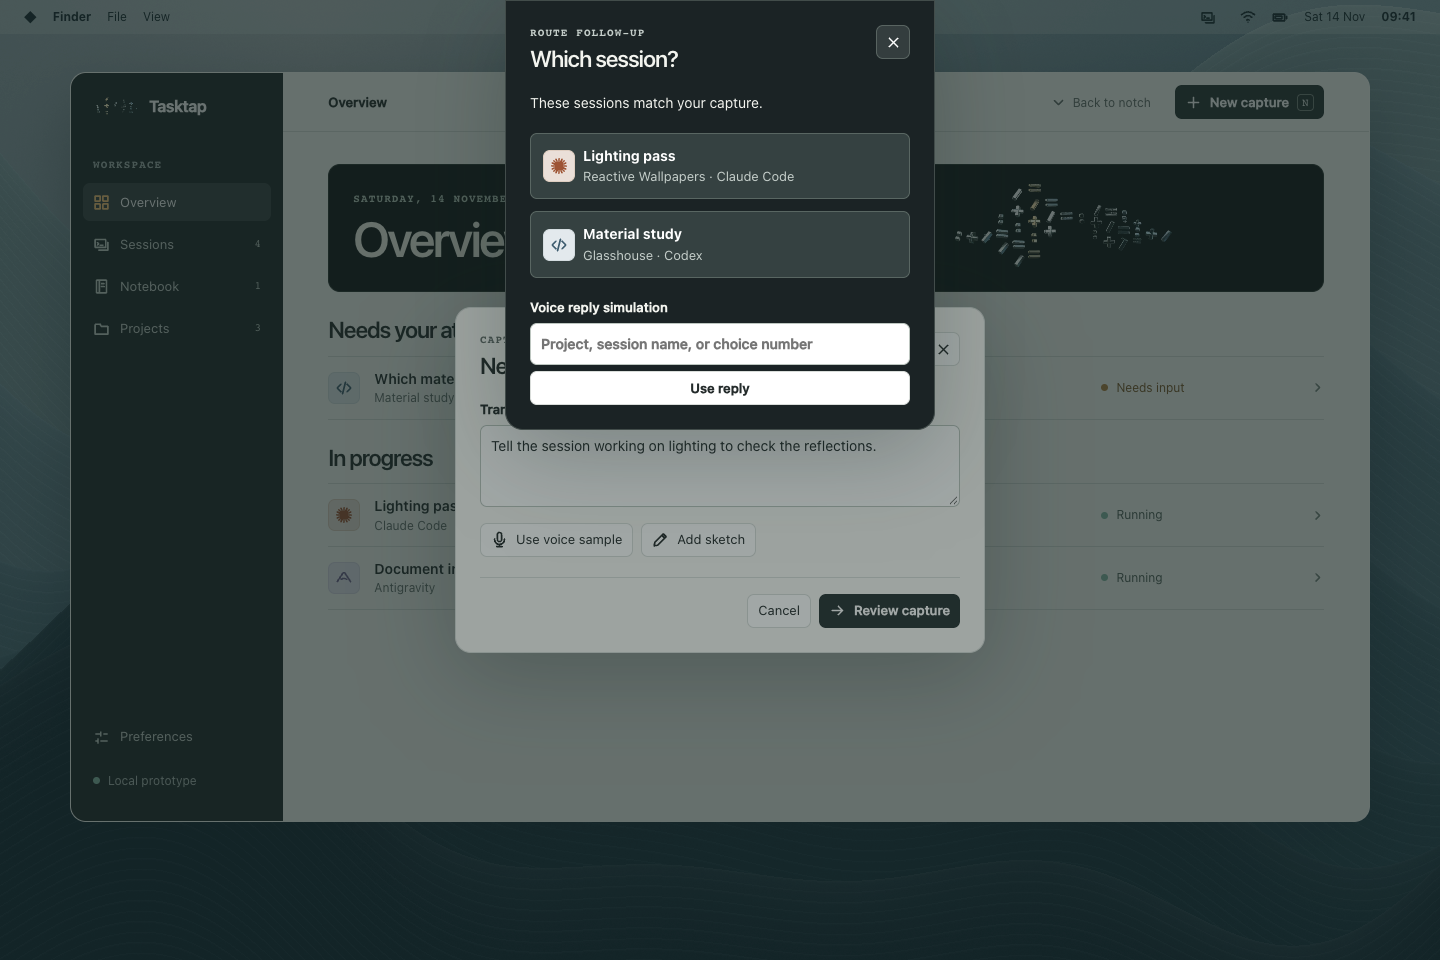
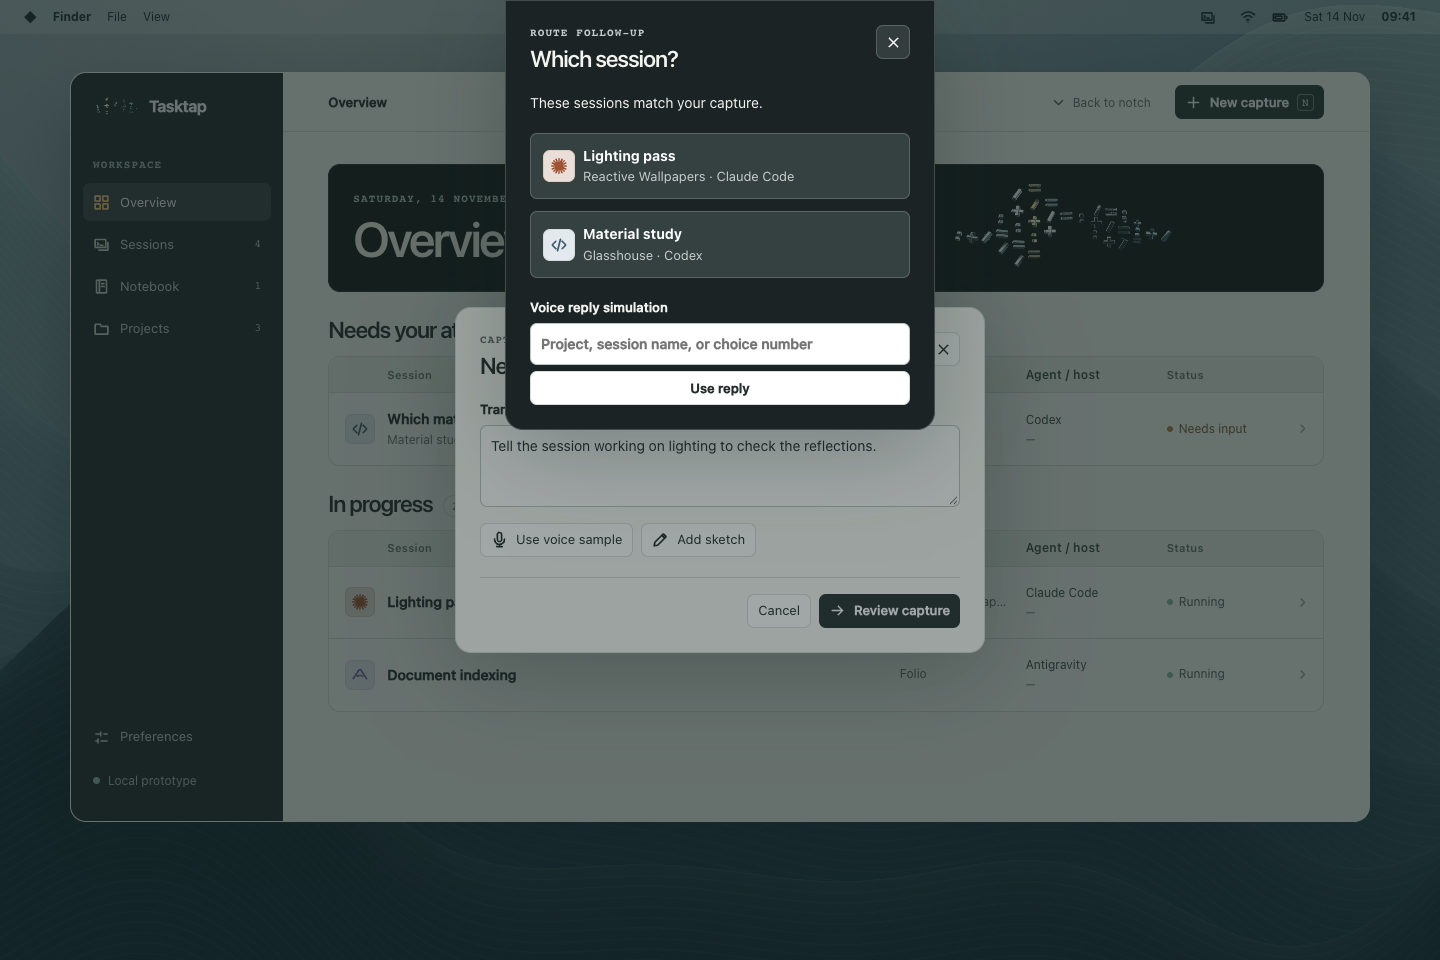
Align workspace session and project rows with shared columns

diff --git a/site/docs/index.html b/site/docs/index.html
@@ -24,7 +24,7 @@ open build/Tasktap.app</code></pre></details><p>Keep project folders under <code
 <section class="guide-section" id="agents"><h2>Agents &amp; accounts</h2><p>There are two separate choices: the connection that <strong>prepares your request</strong>, and the coding agent that <strong>does the project work</strong>. They can use different models and accounts.</p><div class="connection-grid"><div><h3>On this Mac</h3><p>Uses an available Apple model or local matching. No cloud account is needed.</p></div><div><h3>Connected models</h3><p>Use a CLI login, a provider account, or a model server. The route you choose determines where preparation happens.</p></div></div><details><summary>Connection options and account details</summary><p>In <strong>Run Setup → Tasktap</strong>, choose who turns a capture into a brief. <strong>On this Mac</strong> needs no account. <strong>Claude Code</strong> opens a visible drafting conversation in Terminal. Choose <strong>Copy &amp; open Claude Code</strong>, paste and send the request there, then press <kbd>⌃ ⌥ Space</kbd> to return. Choose <strong>Get Claude’s reply</strong> or paste a brief, edit it and review the handoff. Claude uses the account signed in to its CLI. Notes and nudges continue directly. <strong>My Codex login</strong> uses the login in your installed Codex CLI; Tasktap shows the account and workspace when Codex reports them, or identifies API-key billing. A separate <strong>ChatGPT plan</strong> connection uses the account you select for Tasktap. For <strong>Ollama</strong>, enter the server address and choose <strong>Find models</strong>, or enter the exact model ID. Downloaded models on your Mac use no cloud account; cloud models and gateways can send requests upstream.</p></details><p>The next step, <strong>Project work</strong>, sets the project agent and terminal independently. For example, Ollama can prepare a brief that Claude Code runs with its own login. Setup saves both choices when you finish. You can also draft in Claude Code and send the finished brief to Codex. Tasktap shows you the request before it leaves your Mac.</p><h3>Who prepares the handoff?</h3><p>Open <strong>Preferences → Agents → Request preparation</strong>. “On this Mac” uses the available Apple model or local matching. In setup, <strong>More connections…</strong> reveals additional model servers, provider API keys and eligible ChatGPT plan access. For automatic Claude preparation, choose an Anthropic API key or Claude Code with cloud billing. To use Ollama, vLLM or LiteLLM, choose its preset, check the base URL, find or enter a chat model, and save. A gateway can forward a request to a paid upstream provider.</p><p>The review shows the preparation route and where the worker will run. Before remote preparation, you can see the capture and matching labels to be sent and choose local preparation instead.</p>
 <h3>Claude Desktop handoff</h3><p>For a new Claude request, you can choose Claude Desktop as the destination. Tasktap opens a prepared Code brief; confirm the folder and send it in Claude. A prepared brief is shown as <strong>Ready to send</strong>, not as running. Activity, replies, and follow-ups remain in Claude.</p><h3>Who does the work?</h3><p>Tasktap launches your installed Claude Code, Codex, Antigravity, Cursor CLI or Pi with its own CLI account. Under <strong>Agents → Session models</strong>, choose a fixed model or assign models by difficulty. Worker ranking can use available quota estimates. Review lets you choose the agent and model for this job. A nudge uses the existing session.</p>
 </section>
-<section class="guide-section" id="sessions"><h2>Return to a session</h2><p class="section-lede">Find the work, even when its name has changed.</p><p>Open <strong>Workspace → Sessions</strong>. Search by project, task, agent or words from a result. Select the matching run to see its activity, handoffs and summary. Choose <strong>Open in</strong> for a live session or <strong>Resume in</strong> for a supported saved conversation.</p><p>Session details show the host app, project, and recent activity. For cmux sessions, open the original pane; if its inbox is unavailable, send your follow-up there.</p><h3>Current and past names</h3><p>Active session names follow the work described in recent public conversation messages. Tasktap uses your selected preparation connection; interactive Claude preparation uses the available on-device model instead. Cloud connections receive only a short excerpt, not tool output or reasoning. Names refresh only when messages change, at most once per session every three minutes. Open a session’s <strong>Past names</strong> dropdown to see previous names; session search includes every saved name. If a model is unavailable, the existing name stays in place.</p><h3>Continue the conversation</h3><p>To send a follow-up, name the session or choose <strong>Follow up</strong>. Codex can queue it on the original thread. Some agents use <strong>Copy nudge &amp; open session</strong>; paste the reviewed text at the agent prompt.</p>
+<section class="guide-section" id="sessions"><h2>Return to a session</h2><p class="section-lede">Find the work, even when its name has changed.</p><p>Open <strong>Workspace → Sessions</strong>. Search by project, task, agent or words from a result. Select the matching run to see its activity, handoffs and summary. Choose <strong>Open in</strong> for a live session or <strong>Resume in</strong> for a supported saved conversation.</p><p>Session details show the host app, project, and recent activity. For cmux sessions, open the original pane; if its inbox is unavailable, send your follow-up there.</p><h3>Scan your workspace</h3><p>Session rows separate the work, project, agent and host, status, and update time into aligned columns. Narrow windows move project and agent details below the name. Open a row to see the full session details. Projects show their folder, active sessions, and total sessions in the same compact layout.</p><h3>Current and past names</h3><p>Active session names follow the work described in recent public conversation messages. Tasktap uses your selected preparation connection; interactive Claude preparation uses the available on-device model instead. Cloud connections receive only a short excerpt, not tool output or reasoning. Names refresh only when messages change, at most once per session every three minutes. Open a session’s <strong>Past names</strong> dropdown to see previous names; session search includes every saved name. If a model is unavailable, the existing name stays in place.</p><h3>Continue the conversation</h3><p>To send a follow-up, name the session or choose <strong>Follow up</strong>. Codex can queue it on the original thread. Some agents use <strong>Copy nudge &amp; open session</strong>; paste the reviewed text at the agent prompt.</p>
 <p><strong>Delivered</strong> means the nudge reached the queue. <strong>Complete</strong> carries the result. Tasktap waits for outstanding handoffs and questions to settle and checks the provider’s saved turn before closing a managed Codex or Claude worker. Each answered Codex nudge can be matched back to its own receipt. You can reopen the conversation later. Other harnesses may require reading the outcome and closing their terminal yourself.</p></section>
 <section class="guide-section" id="voice"><h2>Voice &amp; controls</h2><h3>Dock and automatic startup</h3><p>Click Tasktap’s Dock icon to reopen the workspace. Closing its window keeps the notch available. Choose <strong>Options → Keep in Dock</strong> from the Dock menu to retain the icon after quitting. Enable <strong>Launch at Login</strong> in Tasktap’s menu bar menu to start it when you sign in; if approval is required, Tasktap opens Login Items settings.</p><h3>Voice and decisions</h3><p>In <strong>Preferences → Voice &amp; alerts</strong>, preview an available local Siri voice or set up Kokoro for offline English narration. Enable spoken summaries if you want to hear completions. Typed capture works in silence.</p><p>A question lights the rim around the notch. Hover or press <kbd>Control + Option + J</kbd> to review it. Choose an answer or <strong>Talk it through</strong>. With optional Codex Micro controls enabled in the Mac menu, the first two Agent Keys light green and red for Yes and No. The third opens discussion. The same decisions work on the Mac when the controller is unplugged.</p></section>
 <section class="guide-section" id="appearance"><h2>Artwork &amp; motion</h2><p>The Mac app icon uses a still metallic voice wave across a near-black square, matching the animated artwork on this site.</p><p>Choose Glyph wave, Phase field, Relay, Signal globe or Resonator under <strong>Preferences → Appearance</strong>. Large illustrations play more slowly than compact notch signals. The microphone trace follows your voice and the relay follows handoff receipts. For still artwork and steady signals, enable <strong>Reduce motion</strong> in macOS Accessibility → Display.</p></section>

diff --git a/prototype/app.js b/prototype/app.js
@@ -80,11 +80,27 @@ function renderNav(projects){
   $('#nav').innerHTML='<div class="nav-group"><span class="nav-kicker">Workspace</span>'+navLink('overview','Overview',icon('grid'))+navLink('sessions','Sessions',icon('sessions'),count(state.sessions.length))+navLink('notes','Notebook',icon('note'),count(state.notes.length))+navLink('projects','Projects',icon('folder'),count(projects.length))+'</div>';
   $('#islandLabel').textContent=state.decisions.length?state.decisions.length+' decision'+(state.decisions.length>1?'s':''):'All clear';
 }
-function sessionRow(s,{question,fixture=false,title=question?.q || sessionDisplayName(s),status=question?'Needs input':s.state}={}){
+function fixtureSessionRow(s,{question,fixture=false,title=question?.q || sessionDisplayName(s),status=question?'Needs input':s.state}={}){
   const agent=[providers[s.agent]||'Agent',sessionLocation(s)].filter(Boolean).join(' · '),p=proj(s.project);
   const lastRun=view==='sessions' && s.updatedAt?new Date(s.updatedAt).toLocaleString(undefined,{dateStyle:'medium',timeStyle:'short'}):'';
   const subtitle=[question?sessionDisplayName(s):'',agent,lastRun].filter(Boolean).join(' · ');
   return '<button class="session-row" data-action="'+(question?'notch':'session')+'" data-id="'+attr(question?.id || s.id)+'">'+(s.agent?'<span class="agent-mark '+attr(s.agent)+'">'+icon(s.agent)+'</span>':'<span aria-hidden="true"></span>')+'<span><span class="row-title">'+esc(title)+'</span><span class="row-sub">'+esc(subtitle)+'</span></span><span class="row-project">'+esc(p?.name||'Project')+'</span>'+(fixture?'<span class="fixture-amount">'+esc(s.amount)+'</span>':'<span class="row-state '+statusClass(question?'Needs input':s.state)+'"><i class="state-dot"></i>'+esc(status)+'</span>')+icon('right')+'</button>';
+}
+function sessionUpdated(s){
+  const date=new Date(Number(s.updatedAt));
+  if(!s.updatedAt || !Number.isFinite(date.getTime()))return '<span class="row-updated" aria-label="Update time unavailable">—</span>';
+  const today=new Date().toDateString()===date.toDateString();
+  const short=date.toLocaleString(undefined,today?{hour:'numeric',minute:'2-digit'}:{month:'short',day:'numeric'});
+  return '<time class="row-updated" datetime="'+date.toISOString()+'" title="'+attr(date.toLocaleString())+'">'+esc(short)+'</time>';
+}
+function sessionColumns(){return '<div class="list-columns" aria-hidden="true"><span>Session</span><span class="row-project">Project</span><span class="row-agent">Agent / host</span><span>Status</span><span class="row-updated">Updated</span><span></span></div>'}
+function sessionRow(s,{question,fixture=false,title=question?.q || sessionDisplayName(s),status=question?'Needs input':s.state}={}){
+  if(fixture)return fixtureSessionRow(s,{question,fixture,title,status});
+  const project=proj(s.project)?.name||'Scratch',agent=providers[s.agent]||'Agent',host=sessionLocation(s);
+  const context=question?'<span class="row-sub row-context">'+esc(sessionDisplayName(s))+'</span>':'';
+  return '<button class="session-row work-row" data-action="'+(question?'notch':'session')+'" data-id="'+attr(question?.id || s.id)+'">'+
+    '<span class="session-cell"><span class="agent-mark '+attr(s.agent||'')+'" aria-hidden="true">'+icon(s.agent||'sessions')+'</span><span class="session-copy"><span class="row-title" title="'+attr(title)+'">'+esc(title)+'</span>'+context+'<span class="row-compact"><span class="row-compact-project">'+esc(project)+'</span><span class="row-compact-agent">'+esc([agent,host].filter(Boolean).join(' · '))+'</span></span></span></span>'+
+    '<span class="row-project" title="'+attr(project)+'">'+esc(project)+'</span><span class="row-agent"><span>'+esc(agent)+'</span><span class="row-sub">'+esc(host||'—')+'</span></span><span class="row-state '+statusClass(status)+'"><i class="state-dot" aria-hidden="true"></i>'+esc(status)+'</span>'+sessionUpdated(s)+icon('right')+'</button>';
 }
 function workOverview(active){
   const questions=new Map();
@@ -103,10 +119,10 @@ function workOverview(active){
       progress.push(sending?sessionRow(session,{title:turn.brief || session.task,status:turn.receipt==='Queued'?'Follow-up queued':'Sending follow-up'}):sessionRow(session));
     }
   }
-  const section=(title,rows)=>rows.length?'<section class="block"><h2>'+title+'</h2><div class="session-list">'+rows.join('')+'</div></section>':'';
+  const section=(title,rows)=>rows.length?'<section class="block"><h2>'+title+'<span class="list-count">'+rows.length+'</span></h2><div class="session-list work-list">'+sessionColumns()+rows.join('')+'</div></section>':'';
   return section('Needs your attention',attention)+section('In progress',progress) || '<p class="empty">No active sessions.</p>';
 }
-function sessionList(rows){return rows.length?'<div class="session-list">'+rows.map(s=>sessionRow(s)).join('')+'</div>':'<p class="empty">No sessions here yet.</p>'}
+function sessionList(rows){return rows.length?'<div class="session-list work-list">'+sessionColumns()+rows.map(s=>sessionRow(s)).join('')+'</div>':'<p class="empty">No sessions here yet.</p>'}
 function noteList(notes){return notes.length?notes.map(n=>'<button class="note" data-action="note" data-id="'+attr(n.id)+'"><span class="eyebrow">'+esc(proj(n.project)?.name||'Scratch')+'</span><strong>'+esc(n.title)+'</strong><span class="hint">'+esc(n.text)+'</span></button>').join(''):'<p class="empty">No notes here yet.</p>'}
 let projectFilter='';
 let sessionFilter='';
@@ -127,7 +143,10 @@ function renderSessionHistory(){
 }
 function renderProjectList(projects){
   const rows=projects.filter(p=>p.name.toLowerCase().includes(projectFilter.trim().toLowerCase()));
-  $('#project-list').innerHTML=rows.map(p=>button(p.name,'view',p.id,'note','folder')).join('')||'<p class="empty">'+(projectFilter.trim()?'No matching projects.':state.showIdleProjects?'No project folders found.':'No projects have active sessions.')+'</p>';
+  $('#project-list').innerHTML=rows.length?'<div class="project-table"><div class="project-columns" aria-hidden="true"><span>Project / folder</span><span>Active</span><span>Sessions</span><span></span></div>'+rows.map(p=>{
+    const sessions=state.sessions.filter(s=>s.project===p.id),active=sessions.filter(s=>activeSessionStates.has(s.state)).length;
+    return '<button class="project-row" data-action="view" data-id="'+attr(p.id)+'"><span class="session-cell"><span class="project-folder" aria-hidden="true">'+icon('folder')+'</span><span class="session-copy"><span class="row-title">'+esc(p.name)+'</span><span class="row-sub project-path" title="'+attr(p.folder||'')+'">'+esc(p.folder||'Folder unavailable')+'</span></span></span><span class="project-active '+(active?'has-active':'')+'" aria-label="'+active+' active sessions">'+active+'</span><span class="project-total" aria-label="'+sessions.length+' sessions">'+sessions.length+'</span>'+icon('right')+'</button>';
+  }).join('')+'</div>':'<p class="empty">'+(projectFilter.trim()?'No matching projects.':state.showIdleProjects?'No project folders found.':'No projects have active sessions.')+'</p>';
 }
 function render(){
   const active=activeSessions(),projects=listedProjects(active);

diff --git a/prototype/workspace-lists.css b/prototype/workspace-lists.css
@@ -1,0 +1,72 @@
+/* Shared tracks keep headers and every row aligned, even across overview groups. */
+.work{container-type:inline-size;container-name:workspace}
+.work-list.session-list{--session-columns:minmax(0,1fr) 110px 125px 126px 14px;display:grid;grid-template-columns:var(--session-columns);column-gap:var(--s-panel);border:1px solid var(--edge);border-radius:var(--r-card);background:#ffffff60;overflow:clip}
+.work-list>.list-columns,.work-list>.work-row{display:grid;grid-template-columns:subgrid;grid-column:1/-1;column-gap:var(--s-panel);padding-inline:var(--s-panel)}
+.list-columns{min-height:36px;align-items:center;background:#edf0ea;border-bottom:1px solid var(--edge);font-size:var(--t-meta);font-weight:600;letter-spacing:.025em;color:#637168}
+.work-list .work-row{min-height:80px;padding-block:var(--s-row);margin:0;line-height:1.4}
+.work-list .work-row:last-child{border-bottom:0}
+.work-list .work-row:hover{background:#e7ede5}
+.work-list .work-row:focus-visible,.project-row:focus-visible{outline-offset:-3px;background:#e7ede5}
+.session-cell{display:flex;align-items:center;gap:var(--s-row);min-width:0;text-align:left}
+.session-copy{display:block;min-width:0;flex:1}
+.work-row .agent-mark{flex:none;width:30px;height:30px;border-radius:var(--r-control)}
+.work-row .row-title{display:-webkit-box;-webkit-box-orient:vertical;-webkit-line-clamp:2;overflow:hidden;font-size:var(--t-base);font-weight:550;line-height:1.4;overflow-wrap:anywhere}
+.work-row .row-context{white-space:nowrap;text-overflow:ellipsis;overflow:hidden;margin-top:var(--s-tight)}
+.work-list .row-project{display:block;white-space:nowrap;overflow:hidden;text-overflow:ellipsis;font-size:var(--t-small);color:#58685f}
+.row-agent{min-width:0;font-size:var(--t-small);color:#39483f}
+.row-agent>span{display:block;overflow:hidden;white-space:nowrap;text-overflow:ellipsis}
+.row-agent .row-sub{margin-top:var(--s-tiny);font-size:var(--t-meta);color:var(--muted)}
+.work-row .row-state{font-size:var(--t-small);gap:var(--s-small);line-height:1.4;min-width:0}
+.work-row .state-dot{width:6px;height:6px}
+.work-list .row-updated{display:none;font-size:var(--t-meta);font-variant-numeric:tabular-nums;color:var(--muted);text-align:right}
+.work-row>.icon{justify-self:end;opacity:.65}
+.row-compact,.row-compact-project,.row-compact-agent{display:none}
+.list-count{display:inline-block;margin-left:var(--s-control);vertical-align:middle;font:var(--t-small)/1.4 var(--font-mono);color:var(--muted);border:1px solid var(--edge);border-radius:var(--r-pill);padding:var(--s-tiny) var(--s-icon)}
+#project-list{display:block}
+.project-table{display:grid;grid-template-columns:minmax(0,1fr) 80px 80px 14px;column-gap:var(--s-panel);border:1px solid var(--edge);border-radius:var(--r-card);overflow:clip;background:#ffffff60}
+.project-columns,.project-row{display:grid;grid-template-columns:subgrid;grid-column:1/-1;column-gap:var(--s-panel);align-items:center;padding:var(--s-row) var(--s-panel);text-align:left;border-bottom:1px solid var(--edge)}
+.project-columns{background:#edf0ea;font-size:var(--t-meta);font-weight:600;color:#637168;padding-block:var(--s-control)}
+.project-row{min-height:76px}
+.project-row:last-child{border-bottom:0}
+.project-row:hover{background:#e7ede5}
+.project-row .row-title{font-size:var(--t-base);font-weight:550}
+.project-folder{width:30px;height:30px;display:grid;place-items:center;color:#67816b;flex:none}
+.project-path{font-size:var(--t-meta);white-space:nowrap;text-overflow:ellipsis;overflow:hidden;margin-top:var(--s-tight)}
+.project-active,.project-total,.project-columns>span:not(:first-child){text-align:right;font-variant-numeric:tabular-nums;font-size:var(--t-small);color:var(--muted)}
+.project-active.has-active{color:#2c6748;font-weight:650}
+.project-row>.icon{width:13px;color:#78847e;justify-self:end}
+@container workspace (min-width:1100px){
+ .work-list.session-list{--session-columns:minmax(0,1fr) 130px 140px 132px 86px 14px}
+ .work-list .row-updated{display:block}
+}
+@container workspace (max-width:800px){
+ .work-list.session-list{--session-columns:minmax(0,1fr) 120px 116px 14px}
+ .work-list .row-project{display:none}
+ .row-compact,.row-compact-project{display:block}
+ .row-compact{margin-top:var(--s-tight);font-size:var(--t-meta);color:var(--muted)}
+}
+@container workspace (max-width:620px){
+ .work-list.session-list{display:block}
+ .work-list>.list-columns{display:none}
+ .work-list>.work-row{position:relative;display:grid;grid-template-columns:minmax(0,1fr) auto;gap:var(--s-control) var(--s-icon);padding:var(--s-panel);min-height:0}
+ .work-row>.session-cell{grid-column:1/-1;padding-right:var(--s-block);align-items:flex-start}
+ .work-row .agent-mark{margin-top:var(--s-tiny)}
+ .work-list .row-agent{display:none}
+ .row-compact{display:flex;gap:var(--s-tight) var(--s-icon);flex-wrap:wrap}
+ .row-compact-agent{display:block}
+ .row-compact-project{font-weight:600}
+ .work-row .row-state{grid-column:1;padding-left:calc(30px + var(--s-row));font-size:var(--t-meta)}
+ .work-list .work-row .row-updated{display:block;grid-column:2;align-self:center}
+ .work-row>.icon{position:absolute;right:16px;top:20px}
+ .project-table{grid-template-columns:minmax(0,1fr) 44px 54px 12px;column-gap:var(--s-icon)}
+ .project-columns,.project-row{padding-inline:var(--s-row);column-gap:var(--s-icon)}
+ .project-row .session-cell{gap:var(--s-small)}
+ .project-folder{width:22px}
+}
+.work-list>.work-row{width:100%;min-height:72px}
+.list-columns>span:first-child,.project-columns>span:first-child{padding-left:calc(30px + var(--s-row))}
+.project-row{min-height:64px}
+@container workspace (max-width:620px){
+ .work-list>.work-row{min-height:0}
+ .project-columns>span:first-child{padding-left:calc(22px + var(--s-small))}
+}

diff --git a/prototype/index.html b/prototype/index.html
@@ -3,6 +3,7 @@
 <head>
 <meta charset="utf-8"><meta name="viewport" content="width=device-width,initial-scale=1"><meta name="color-scheme" content="light"><title>Tasktap</title>
 <link rel="stylesheet" href="style.css"><link rel="stylesheet" href="motion.css"><link rel="stylesheet" href="voice-wave.css"><link rel="stylesheet" href="routing-activity.css"><link rel="stylesheet" href="settings.css"><link rel="stylesheet" href="setup.css">
+<link rel="stylesheet" href="workspace-lists.css">
 </head>
 <body class="notch-first">
 <div class="desktop-bar"><div class="os-left"><span class="os-glyph" aria-hidden="true">◆</span><strong>Finder</strong><span>File</span><span>View</span></div><div class="os-right"><button id="status-button" aria-label="Tasktap menu" aria-expanded="false" title="Tasktap menu"><span data-icon="sessions"></span></button><span data-icon="wifi"></span><span data-icon="battery"></span><span>Sat 14 Nov</span><b>09:41</b></div></div>
